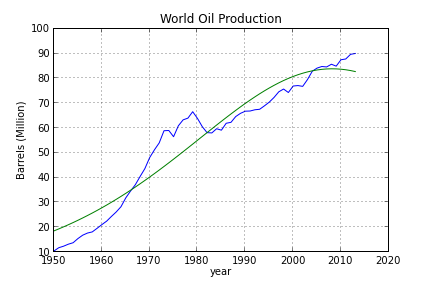
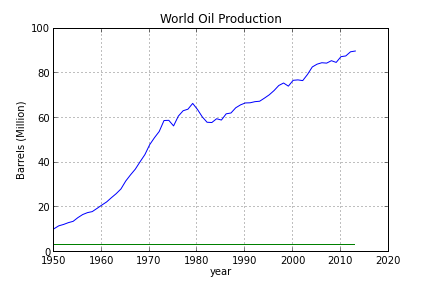
-

diff --git a/app-math-tr/peak/peak.tex b/app-math-tr/peak/peak.tex
@@ -10,32 +10,33 @@ $$
 \begin{minted}[fontsize=\footnotesize]{python}
 from scipy.optimize import fmin
 import pandas as pd
-df = pd.read_csv('us.csv',sep='\s')
-#df = pd.read_csv('oil1.csv',sep='\s')
-df = df[df['year'] < 1966]
+#df = pd.read_csv('us.csv',sep='\s'); df['oil'] = df['oil'] / 1000.
+df = pd.read_csv('world.csv',sep='\s')
+#df = df[df['year'] < 1966]
 #df = df[df['year'] < 2008]
 
 def hubbard_err(w):
     cm=w[0];bc=w[1];tmc=w[2]
+    #cm=2;bc=2;tmc=w[2]
     yfit = 2*cm / (1+cosh(bc*(df['year']-tmc)))
     diff = df['oil']-yfit
     e=norm(diff)
     return e
 
-v = fmin(hubbard_err, [3, 3, 2000], maxiter=100000, maxfun=10000)
+v = fmin(hubbard_err, [3, 3, 1900], maxiter=1000, maxfun=10000)
 print v
+df2 = df.set_index('year')
 \end{minted}
 
 \begin{verbatim}
 Optimization terminated successfully.
-         Current function value: 12120221.612167
-         Iterations: 86
-         Function evaluations: 172
-[  7.02607678e+00  -7.54324342e-04   1.96427493e+03]
+         Current function value: 458.894642
+         Iterations: 113
+         Function evaluations: 222
+[  3.22726098e+00  -1.26167397e-04   2.01249010e+03]
 \end{verbatim}
 
 \begin{minted}[fontsize=\footnotesize]{python}
-df2 = df.set_index('year')
 ax = df2['oil'].plot(title='World Oil Production')
 ax.set_ylabel("Barrels (Million)")
 plt.savefig('peak_01.png')
@@ -46,18 +47,18 @@ plt.savefig('peak_01.png')
 
 \begin{minted}[fontsize=\footnotesize]{python}
 cm=v[0];bc=v[1];tmc=v[2]
-def hubbard(x): 
-    return 2*cm / (1+cosh(bc*(x-tmc)))
+#cm=2;bc=2;tmc=v[2]
+def hubbard(x): return 2*cm / (1+cosh(bc*(x-tmc)))
 pred = map(hubbard, df['year'])
 print pred
+df2['pred'] = pred
 \end{minted}
 
 \begin{verbatim}
-[18.519947897246944, 19.314578111406714, 20.138017590457544, 20.990818356218071, 21.873493835070867, 22.786512989161988, 23.730294065627863, 24.705197966238885, 25.711521244217437, 26.749488739965617, 27.819245873049223, 28.920850614047456, 30.054265166797538, 31.219347399136325, 32.415842068444974, 33.643371897100387, 34.901428562271072, 36.189363674283257, 37.506379827920988, 38.851521821377311, 40.223668147980938, 41.621522876089223, 43.043608042442393, 44.488256693557283, 45.953606718119573, 47.437595620498556, 48.93795639112443, 50.452214633183004, 51.977687106537616, 53.511481848619326, 55.050500027886962, 56.591439678018837, 58.130801449970193, 59.664896504177811, 61.189856646347891, 62.701646787342689, 64.196079780704423, 65.668833660453231, 67.115471267231669, 68.531462213036434, 69.912207094218473, 71.253063819823694, 72.549375878505785, 73.796502323110687, 74.989849208656523, 76.124902177944563, 77.197259850616845, 78.202667637321611, 79.137051571929504, 79.996551732563404, 80.777554807551127, 81.476725356107835, 82.091035316239356, 82.617791324414171, 83.054659433116882, 83.399686843309581, 83.651320308649588, 83.808420916304343, 83.870275004363705, 83.836601036927561, 83.707552323482901, 83.483715537571612, 83.166105059272297, 82.756153234920987]
+[3.2272108284777965, 3.2272124207300186, 3.2272139872976742, 3.2272155281807131, 3.2272170433790874, 3.2272185328927483, 3.2272199967216486, 3.2272214348657418, 3.227222847324982, 3.2272242340993236, 3.227225595188723, 3.2272269305931371, 3.2272282403125221, 3.2272295243468387, 3.227230782696044, 3.2272320153600984, 3.2272332223389633, 3.2272344036325995, 3.2272355592409694, 3.2272366891640369, 3.2272377934017662, 3.2272388719541207, 3.2272399248210668, 3.227240952002572, 3.2272419534986021, 3.227242929309126, 3.2272438794341123, 3.2272448038735306, 3.2272457026273527, 3.2272465756955486, 3.227247423078091, 3.2272482447749526, 3.2272490407861079, 3.2272498111115313, 3.2272505557511981, 3.2272512747050848, 3.2272519679731673, 3.2272526355554261, 3.2272532774518377, 3.2272538936623825, 3.227254484187041, 3.2272550490257941, 3.2272555881786236, 3.227256101645513, 3.227256589426446, 3.2272570515214061, 3.2272574879303799, 3.227257898653352, 3.2272582836903099, 3.227258643041242, 3.2272589767061368, 3.2272592846849828, 3.2272595669777702, 3.2272598235844909, 3.2272600545051371, 3.2272602597396998, 3.2272604392881736, 3.2272605931505525, 3.227260721326831, 3.227260823817006, 3.2272609006210744, 3.2272609517390327, 3.22726097717088, 3.2272609769166154]
 \end{verbatim}
 
 \begin{minted}[fontsize=\footnotesize]{python}
-df2['pred'] = pred
 ax = df2['oil'].plot(title='World Oil Production')
 ax.set_ylabel("Barrels (Million)")
 ax.hold(True)
@@ -66,7 +67,6 @@ plt.savefig('peak_02.png')
 \end{minted}
 
 \includegraphics[height=6cm]{peak_02.png}
-
 
 \url{http://www.earth-policy.org/Updates/2007/Update67_data2.htm#table1}
 
